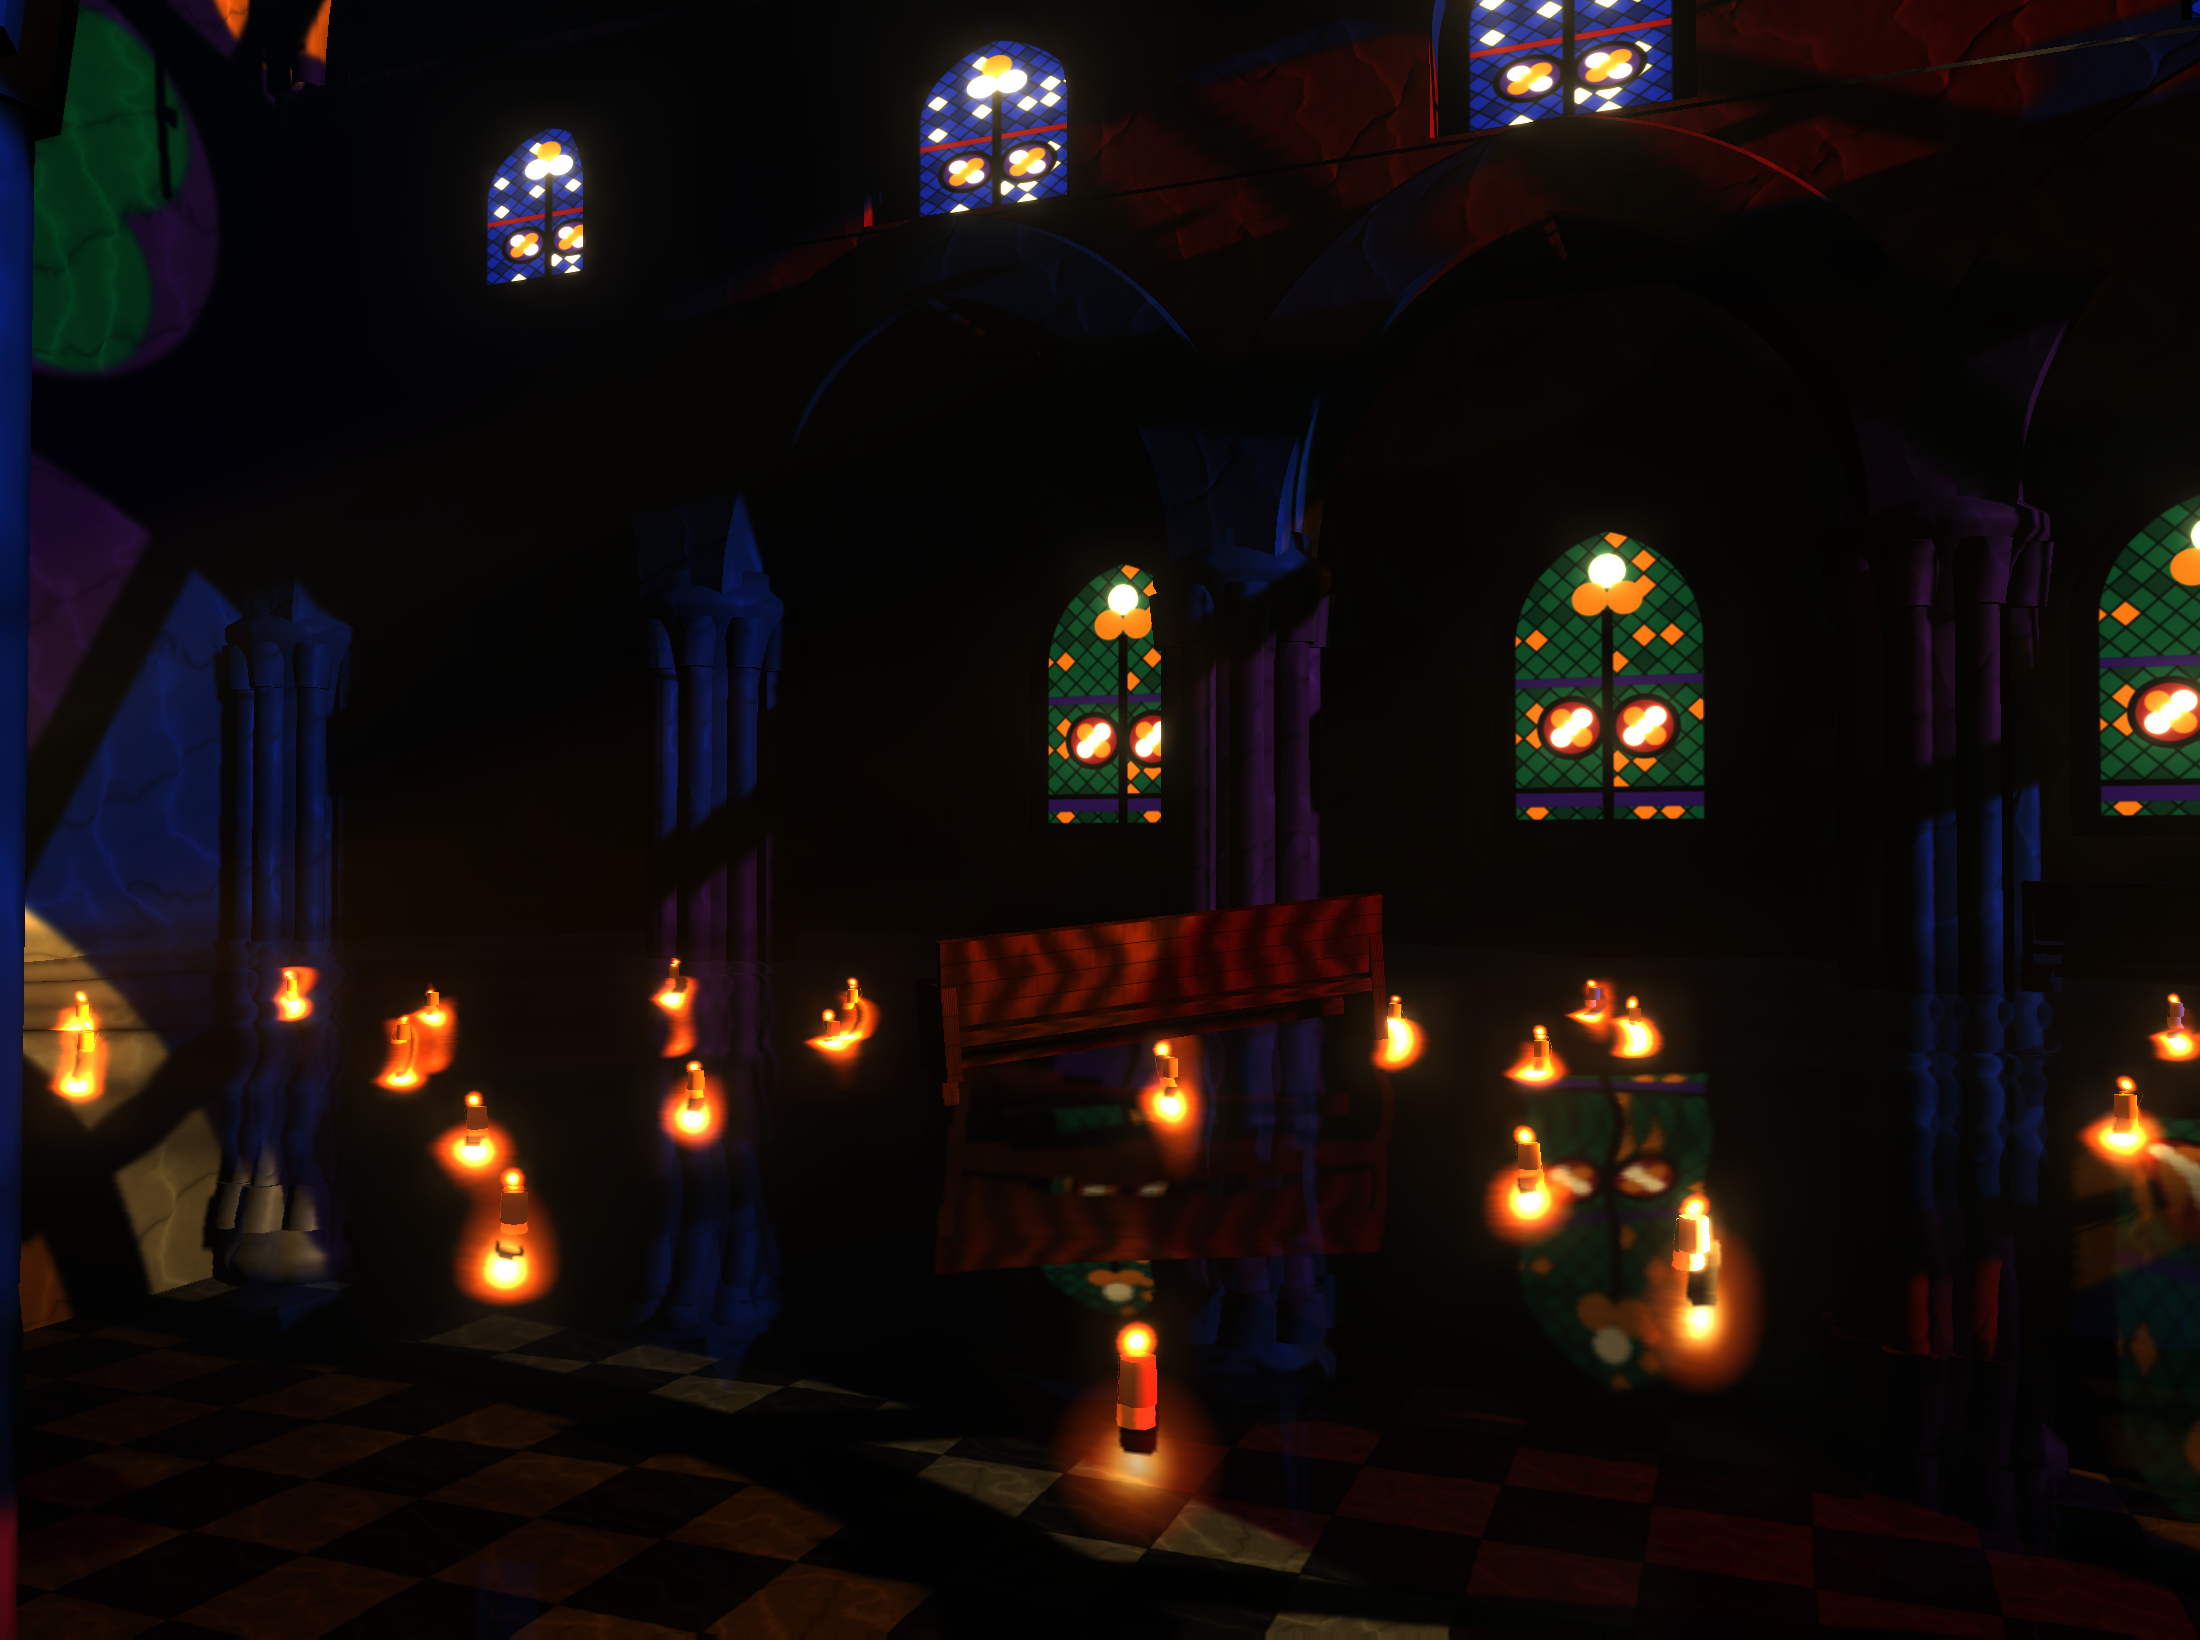
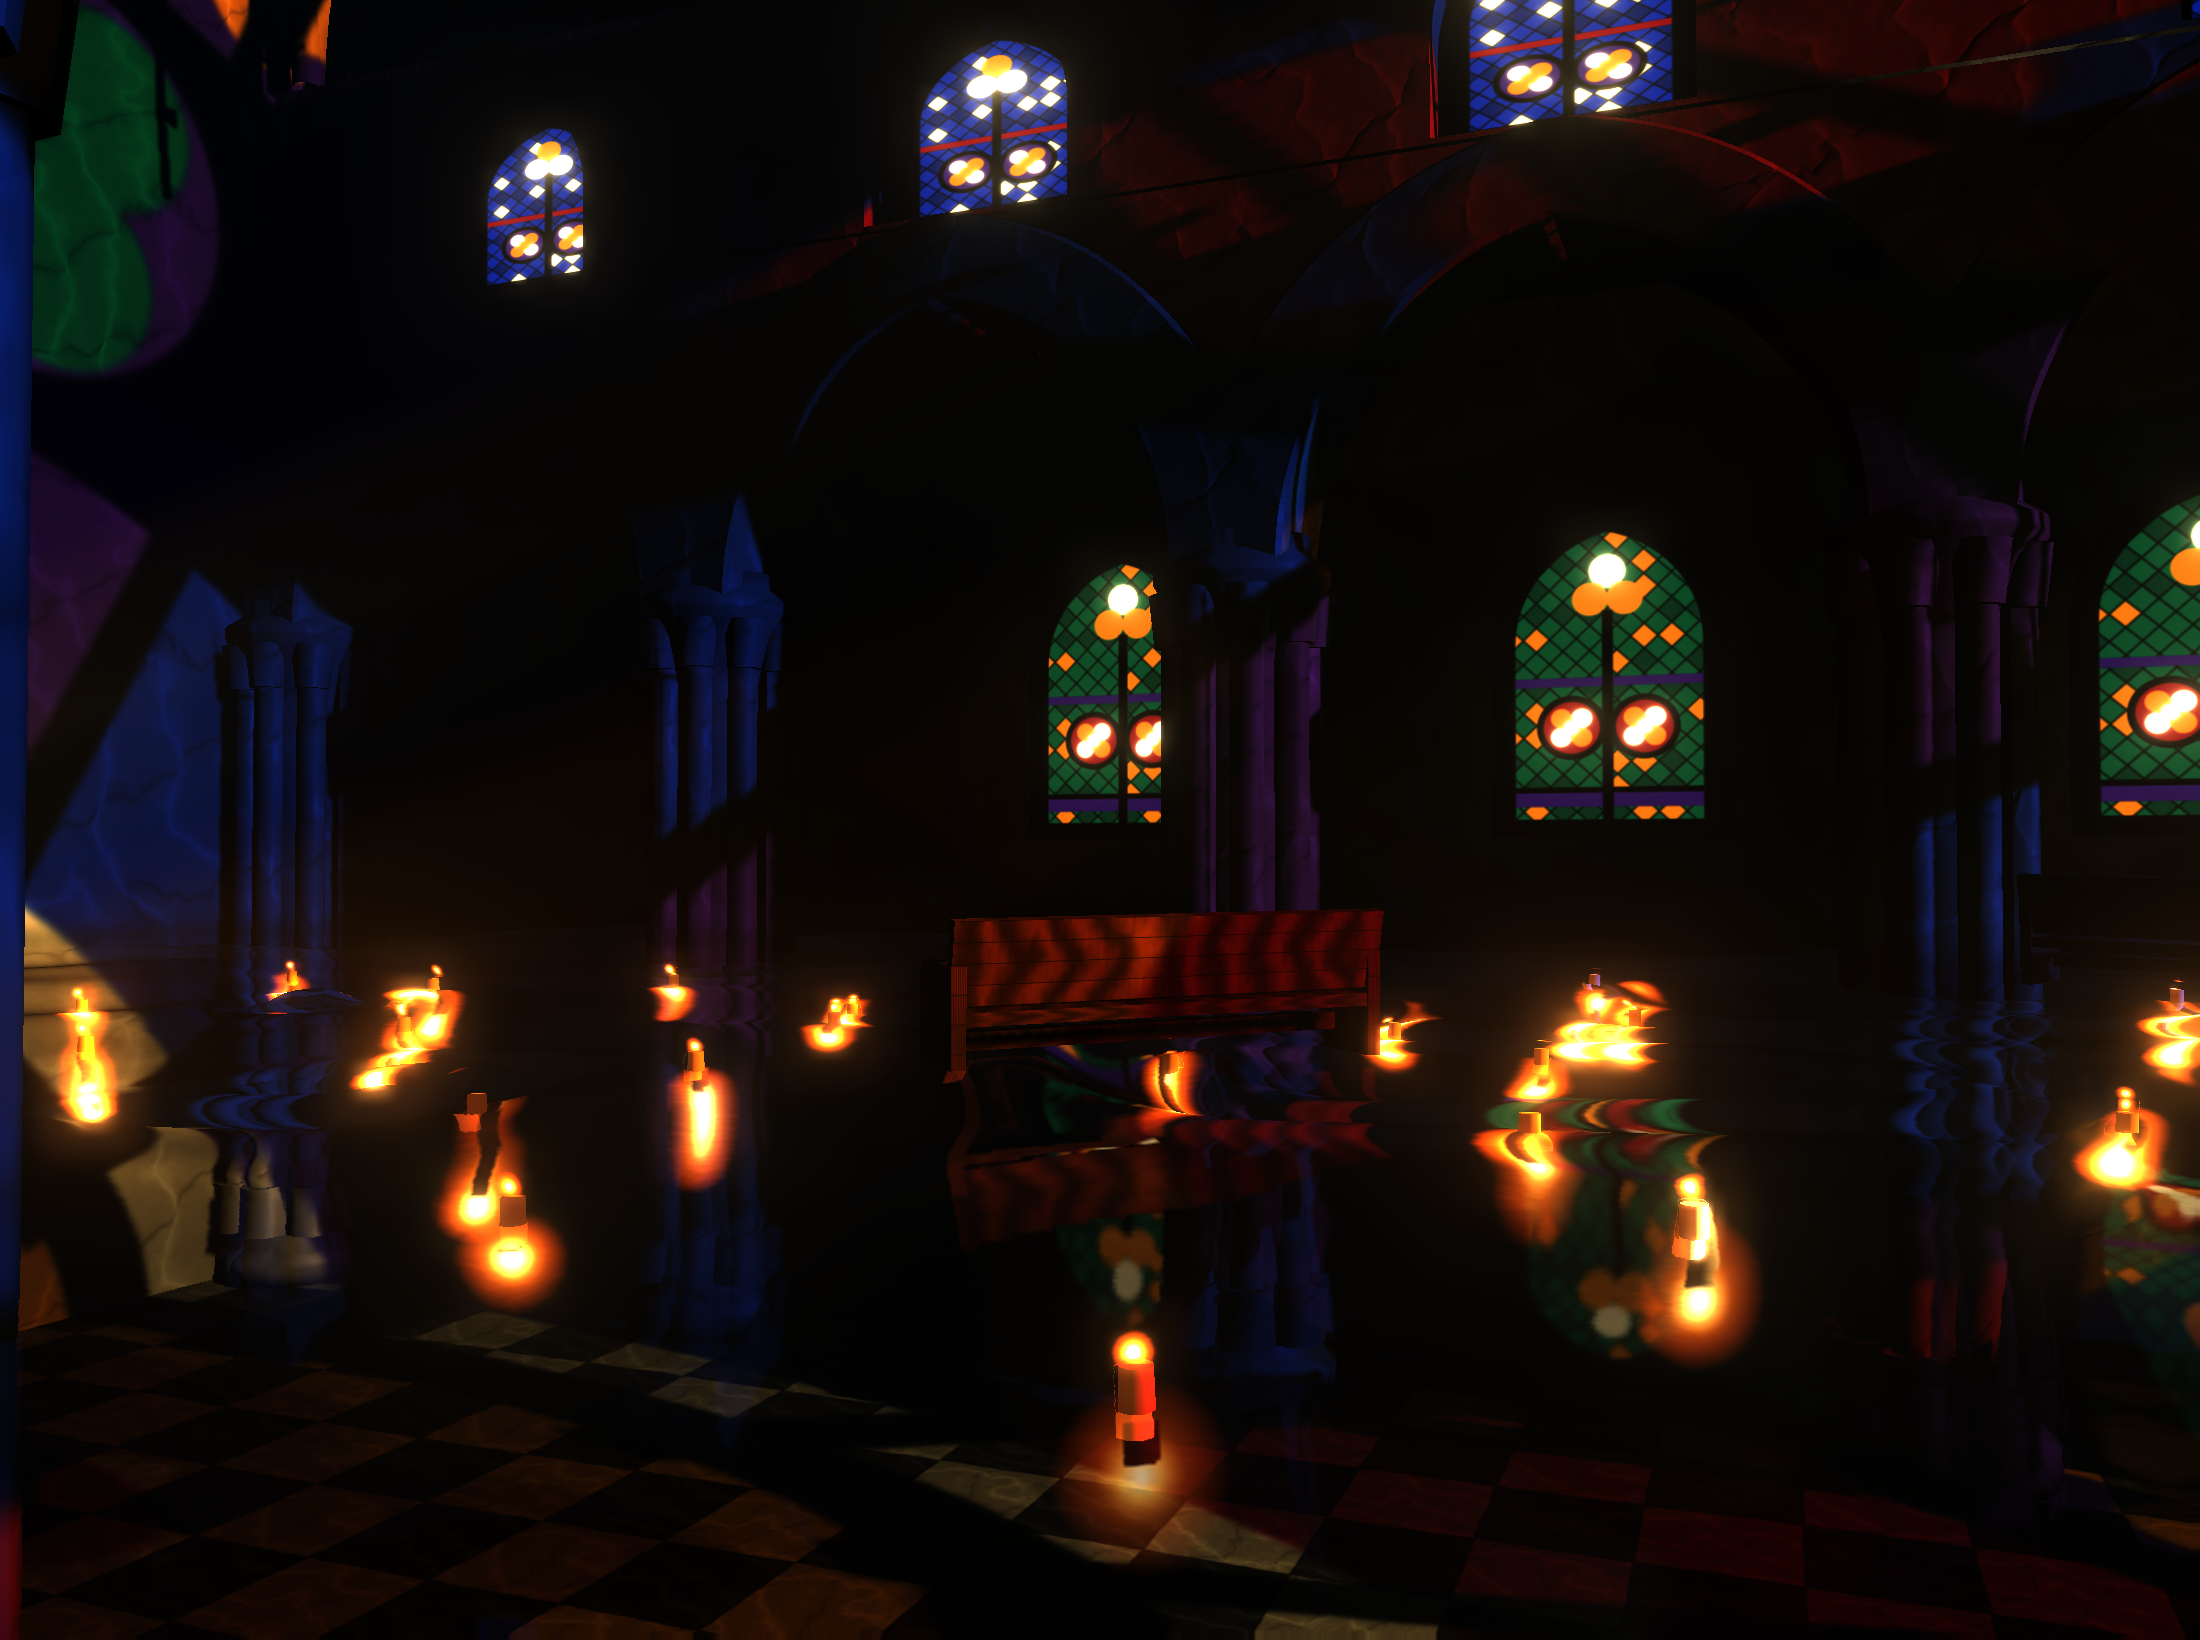
Rings decay like rings, and stop being evicted before they finish
Two separate causes for the snap.

The maths. A ring on water spreads its energy around a circumference
that grows with the radius, so amplitude falls as 1/sqrt(r) and the
viscous loss on top is slow. It was decaying exponentially in time
instead, then being cut outright at 3.4 s while still at 5% of its
height. It is now geometric spreading with a smooth fade to nothing, and
a train of crests that broadens as the components disperse rather than a
single crest. Measured height over life: 33, 28, 22, 22, 20, 12, 4, 0 mm.
Reach went from 1.5 m to about 7.

The buffer. Twelve slots at twenty impacts a second is a slot every
0.6 s, so most rings were overwritten long before they faded — and the
bulk of those impacts turned out to be the camera's own wake, which fired
every 0.14 s at strength 0.04 whenever the scripted path drifted near the
water. Wake now needs real wading speed and fires at a third the rate,
the buffer holds twenty, and the drips are fewer and slower. Six impacts
a second against twenty slots.

diff --git a/index.html b/index.html
@@ -1435,7 +1435,7 @@ const waterUniforms = {
   uWave:       { value: new THREE.Vector4(1.0, 1.0, 1.0, 0.16) }, // amp, steep, speed, detail
   uAbsorb:     { value: 0.040 },
   // ring buffer of drip impacts: xz = where, z = when, w = strength
-  uRipples:    { value: Array.from({ length: 12 }, () => new THREE.Vector4(0, 0, -99, 0)) },
+  uRipples:    { value: Array.from({ length: 20 }, () => new THREE.Vector4(0, 0, -99, 0)) },
   // rgb = the scene behind the water, a = its linear depth over far
   uRefract:    { value: null },
   uRes:        { value: new THREE.Vector2(1, 1) },
@@ -1451,7 +1451,9 @@ const waterMat = new THREE.ShaderMaterial({
     uniform mat4  uReflMat;
     uniform vec4  uWave;
     uniform vec3  uCam;
-    uniform vec4  uRipples[12];
+    uniform vec4  uRipples[20];
+    #define RIPPLES 20
+    #define RING_LIFE 4.4
     varying vec3 vW;
     varying vec3 vN;
     varying vec4 vReflUV;
@@ -1493,21 +1495,33 @@ const waterMat = new THREE.ShaderMaterial({
       disp *= taper;
       acc  *= taper;
 
-      // drip impacts: an outgoing ring, decaying in age and in radius
-      for (int i = 0; i < 12; i++) {
+      /* Drip impacts. A ring on water does not decay exponentially in
+         time — its energy is spread around a circumference that grows
+         with the radius, so the amplitude falls as 1/sqrt(r), and the
+         viscous loss on top of that is slow. Decaying in age instead
+         made a ring die where it stood; worse, the old cutoff killed it
+         outright at 3.4 s while it still had 5% of its height left,
+         which is the snap you could see.
+         A drop also leaves a train rather than one crest, and the train
+         broadens as the components disperse: the long waves outrun the
+         short ones, so the packet stretches and the wavelength behind
+         the front grows with age.                                   */
+      for (int i = 0; i < RIPPLES; i++) {
         vec4 rp = uRipples[i];
         float age = uTime - rp.z;
-        if (age < 0.0 || age > 3.4 || rp.w <= 0.0) continue;
+        if (rp.w <= 0.0 || age < 0.0 || age > RING_LIFE) continue;
         vec2  d2 = wp0.xz - rp.xy;
         float d  = length(d2);
-        float front = age * 1.35;                    // ring radius
-        /* Reach mattered more than height. At exp(-d * 0.30) a ring was
-           gone within three metres of where it landed, so from anywhere
-           down the nave a drip made no visible mark at all.         */
-        float env = exp(-abs(d - front) * 3.0) * exp(-age * 0.85) * exp(-d * 0.14);
-        float phase = (d - front) * 13.0;
-        disp.y += rp.w * 0.075 * env * cos(phase);
-        vec2 g = (d > 1e-4 ? d2 / d : vec2(0.0)) * rp.w * 1.05 * env * sin(phase);
+        float x  = d - age * 1.55;                   // signed distance behind the front
+        float w  = 0.70 + age * 0.60;                // packet broadens as it disperses
+        float env = exp(-(x * x) / (w * w));
+        if (x < 0.0) env *= exp(-(x * x) * 4.0);     // steep leading edge
+        float amp = rp.w * 0.085 * inversesqrt(max(d, 0.4) + 1.0)
+                  * exp(-age * 0.13)                 // viscosity, gently
+                  * smoothstep(RING_LIFE, RING_LIFE * 0.55, age);
+        float k = 8.0 / (1.0 + age * 0.18);
+        disp.y += amp * env * cos(x * k);
+        vec2 g = (d > 1e-4 ? d2 / d : vec2(0.0)) * amp * env * k * sin(x * k) * 0.9;
         acc.x -= g.x;
         acc.z -= g.y;
       }
@@ -1969,7 +1983,7 @@ const candleLights = [0, 17, 38, 55].map(i => {
 });
 
 /* ── drips off the vault ───────────────────────────────────────────*/
-const DRIPS = 48;
+const DRIPS = 26;
 const dripPos = new Float32Array(DRIPS * 3);
 const dripGeo = new THREE.BufferGeometry();
 dripGeo.setAttribute('position', new THREE.BufferAttribute(dripPos, 3));
@@ -1990,7 +2004,7 @@ scene.add(drips);
 const dripState = Array.from({ length: DRIPS }, (_, i) => ({
   x: -6.2 + ((i * 3.1) % 12.4),
   z: Z0 + 3 + ((i * 5.7) % (Z1 - Z0 - 6)),
-  y: 0, v: 0, wait: (i * 0.83) % 4
+  y: 0, v: 0, wait: (i * 0.83) % 11
 }));
 /* ── vines through the breach ──────────────────────────────────────
    Where the roof opens, weather gets in and so does everything else.
@@ -2179,7 +2193,7 @@ function splash(x, y, z, power) {
     s.life = 0.55 + (k % 4) * 0.16;
     sprayHead++;
   }
-  const rp = waterUniforms.uRipples.value[rippleIdx++ % 12];
+  const rp = waterUniforms.uRipples.value[rippleIdx++ % 20];
   rp.set(x, z, uTime.value, Math.min(1.6, 0.7 + power * 0.5));
   audio.drip(x, z, Math.min(1.4, 0.5 + power * 0.4));
 }
@@ -2228,12 +2242,16 @@ function updateWake(dt, t) {
   const speed = Math.hypot(dx, dz) / Math.max(dt, 1e-4);
   wake.x = camera.position.x; wake.z = camera.position.z;
   wake.timer -= dt;
-  if (speed < 0.35 || wake.timer > 0) return;
-  wake.timer = 0.14;
-  const r = waterUniforms.uRipples.value[rippleIdx++ % 12];
+  /* Only when you are actually wading, and not often. At 0.35 m/s the
+     scripted camera's own drift qualified, and a ring every 0.14 s of
+     strength 0.04 filled the whole buffer with wake you cannot see —
+     evicting the drips, which is what made those vanish mid-ring.   */
+  if (speed < 0.9 || wake.timer > 0) return;
+  wake.timer = 0.45;
+  const r = waterUniforms.uRipples.value[rippleIdx++ % 20];
   // just behind the eye, and only as strong as the wading is fast
   r.set(camera.position.x - dx * 6, camera.position.z - dz * 6, t,
-        Math.min(0.85, speed * 0.16));
+        Math.min(0.9, 0.3 + speed * 0.16));
   // wading fast enough throws spray as well as rings
   if (speed > 3.2 && Math.abs(camera.position.y - wy) < 0.7)
     splash(camera.position.x - dx * 3, wy, camera.position.z - dz * 3, speed * 0.06);
@@ -2325,7 +2343,7 @@ function updateLife(dt, t) {
          silly at five — one of the five could ever make a ring, so the
          water under the breach was glass.                          */
       if (nR <= 48 || (i & 15) === 0) {
-        const r = waterUniforms.uRipples.value[rippleIdx++ % 12];
+        const r = waterUniforms.uRipples.value[rippleIdx++ % 20];
         r.set(d.x, d.z, t, 0.85);
       }
     }
@@ -2350,10 +2368,10 @@ function updateLife(dt, t) {
     d.y -= d.v * dt;
     const surf = wy + waveAt(d.x, d.z, wt, amp).y;
     if (d.y <= surf) {
-      const r = waterUniforms.uRipples.value[rippleIdx++ % 12];
+      const r = waterUniforms.uRipples.value[rippleIdx++ % 20];
       r.set(d.x, d.z, t, 1.0);
       audio.drip(d.x, d.z, 1.0);
-      d.y = 0; d.v = 0; d.wait = 1.4 + (i * 0.37) % 3.6;
+      d.y = 0; d.v = 0; d.wait = 3.2 + (i * 0.37) % 9.0;
       dripPos[i * 3 + 1] = -999;
       continue;
     }
